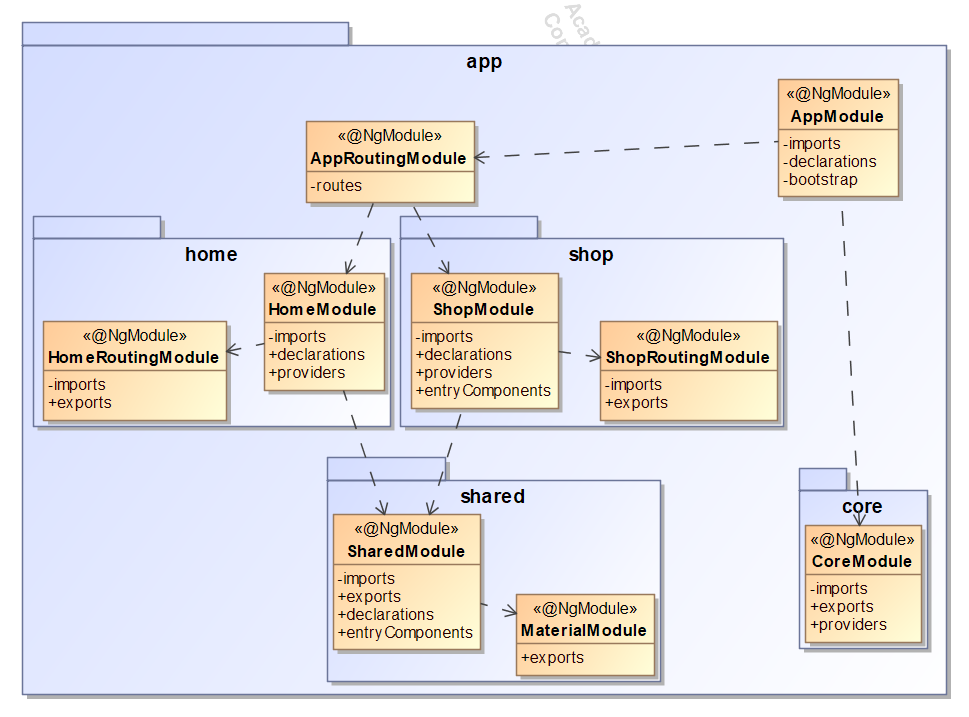
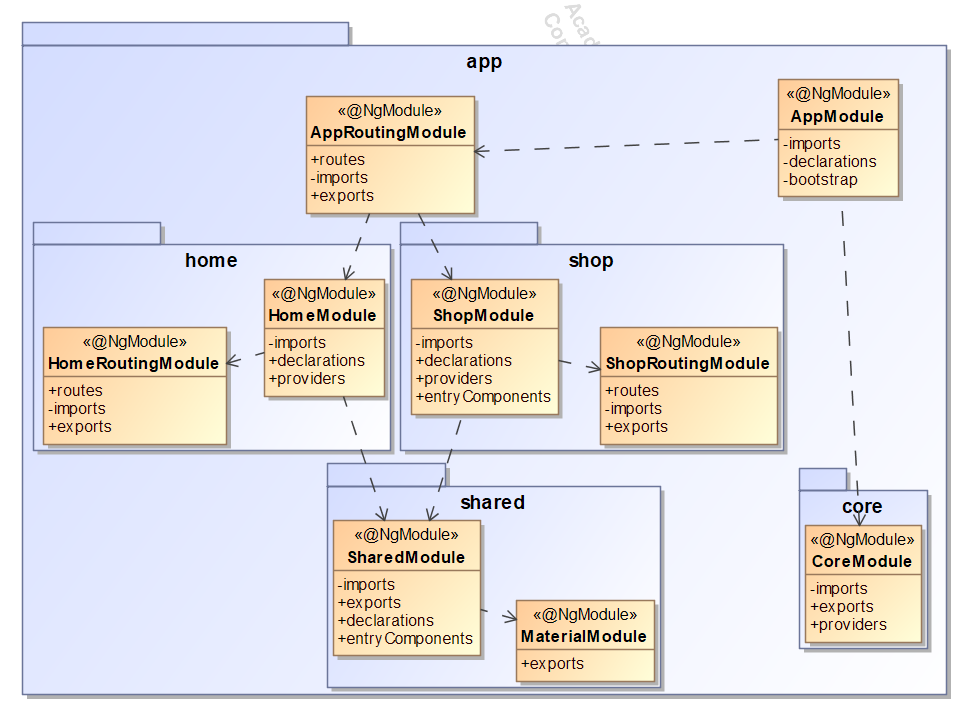
added routing

diff --git a/README.md b/README.md
@@ -68,8 +68,60 @@ actualiza los cambios en el nivel de existencias de mercancías (STOCK) en la ba
 ![](./docs/betca-tpv.png)
 
 ### Arquitectura del Front-end: Angular
+#### Carpetas
 ![](docs/front-end-folders.png)
+#### Módulos
 ![](docs/front-end-modules.png)
+#### Enrutamiento y seguridad
+Hemos decidido realizar carga perezosa de los módulos, y para ello se delega al módulo de rutas la carga de los sub-módulos,
+ en el momento que el usuario elige una sub-ruta.   
+ 
+Para la seguridad, se ha implementado uno genérico (_RoleGuardService_), se configura en el propio enrutamiento los roles permitidos,
+ y este a través de servicio de autenticación (_AuthService_) comprueba el rol actual del usuario, remitiendo a la página principal
+  si este no tuviera el rol requerido.
+
+```typescript
+const routes: Routes = [
+  {path: '', pathMatch: 'full', redirectTo: 'home'},
+  {path: 'home', loadChildren: () => import('./home/home.module').then(module => module.HomeModule)},
+  {path: 'shop', loadChildren: () => import('./shop/shop.module').then(module => module.ShopModule)}
+  // {path: 'home', component: HomeComponent},  // eager load
+  // {path: 'shop', component: ShopComponent}   // eager load
+];
+@NgModule({imports: [RouterModule.forRoot(routes)],exports: [RouterModule]})
+export class AppRoutingModule {}
+```
+
+```typescript
+const routes: Routes = [
+  {path: '', component: HomeComponent, children: []}
+];
+@NgModule({imports: [RouterModule.forChild(routes)],exports: [RouterModule]})
+export class HomeRoutingModule {}
+```
+
+```typescript
+const routes: Routes = [
+  {
+    path: '', // 'shop' to forRoot
+    component: ShopComponent,
+    canActivate: [RoleGuardService],
+    data: {roles: [Role.ADMIN, Role.MANAGER, Role.OPERATOR]},
+    children: [ // or path: shop/articles
+      {path: 'articles', component: ArticlesComponent},
+      {path: 'cashier-closed', component: CashierClosedComponent},
+      {path: 'cashier-opened', component: CashierOpenedComponent},
+      {path: 'providers', component: ProvidersComponent},
+      {path: 'tickets', component: TicketsComponent},
+    ]
+  }
+];
+@NgModule({imports: [RouterModule.forChild(routes)], exports: [RouterModule]})
+export class ShopRoutingModule {}
+```
+
+
+
 ### Arquitectura del Back-end: Spring-User mediante Arquitectura por Capas
 
 ### Arquitectura del Front-end: Spring-Core mediante Arquitectura Hexagonal
